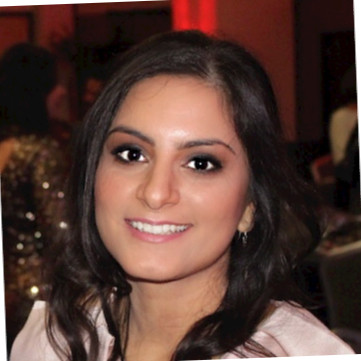
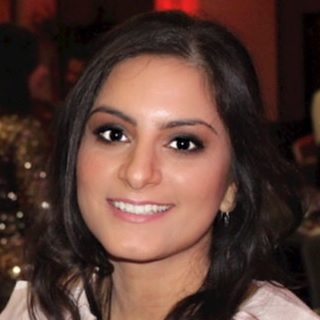
Added Chairperson.html

diff --git a/chairperson.html b/chairperson.html
@@ -1,0 +1,370 @@
+<!DOCTYPE html>
+<html lang="en">
+  <head>
+  <link rel="icon" href="images/chakra.png" type="image/png">
+  <!-- Global site tag (gtag.js) - Google Analytics -->
+<script async src="https://www.googletagmanager.com/gtag/js?id=UA-176707928-1"></script>
+<script>
+  window.dataLayer = window.dataLayer || [];
+  function gtag(){dataLayer.push(arguments);}
+  gtag('js', new Date());
+
+  gtag('config', 'UA-176707928-1');
+</script>
+
+    <title>Indian Students in UK | National Indian Students & Alumni Union UK | NISAU</title>
+    <meta charset="utf-8">
+    <meta name="viewport" content="width=device-width, initial-scale=1, shrink-to-fit=yes">
+	
+    <link href="https://fonts.googleapis.com/css?family=Josefin+Sans:300i,400,700" rel="stylesheet">
+    <link rel="stylesheet" href="fonts/icomoon/style.css">
+	<link rel="stylesheet" href="https://cdnjs.cloudflare.com/ajax/libs/font-awesome/4.7.0/css/font-awesome.min.css">
+    <link rel="stylesheet" href="css/bootstrap.min.css">
+	<link rel="stylesheet" href="css/main.css">
+    <link rel="stylesheet" href="css/magnific-popup.css">
+    <link rel="stylesheet" href="css/jquery-ui.css">
+    <link rel="stylesheet" href="css/owl.carousel.min.css">
+    <link rel="stylesheet" href="css/owl.theme.default.min.css">
+	<link rel="stylesheet" href="css/home.css">
+
+    <link rel="stylesheet" href="css/lightgallery.min.css">    
+    
+    <link rel="stylesheet" href="css/bootstrap-datepicker.css">
+
+    <link rel="stylesheet" href="fonts/flaticon/font/flaticon.css">
+    
+    <link rel="stylesheet" href="css/swiper.css">
+
+    <link rel="stylesheet" href="css/aos.css">
+
+    <link rel="stylesheet" href="css/style.css">
+	<style>
+.collapsible {
+  background-color: #fff;
+  color: black;
+  cursor: pointer;
+  padding: 18px;
+  width: 100%;
+  border: none;
+  text-align: left;
+  outline: none;
+  font-size: 15px;
+}
+
+.collapsible:after {
+  content: '\002B';
+  color: black;
+  font-weight: bold;
+  float: right;
+  margin-left: 5px;
+}
+
+.activeb:after {
+  content: "\2212";
+}
+
+.activeb, .collapsible:hover {
+  background-color: #fff;
+}
+
+.content {
+  padding: 0 18px;
+  max-height: 0;
+  overflow: hidden;
+  transition: max-height 0.2s ease-out;
+  background-color: #f1f1f1;
+}
+</style>
+	<style>
+	body{        
+        padding-top: 200px;
+        padding-bottom: 20px;
+    }
+	.fixed-header{
+		position: fixed;
+		top: 0;
+		width: 100%;
+		background: #00a5b4;
+		}
+		.icon-bar {
+  position: fixed;
+  top: 50%;
+  right: 0;
+  -webkit-transform: translateY(-50%);
+  -ms-transform: translateY(-50%);
+  transform: translateY(-50%);
+}
+.button {
+  background-color: #00a5b4; /* Green */
+  border: none;
+  color: white;
+  padding: 16px 32px;
+  text-align: center;
+  text-decoration: none;
+  display: inline-block;
+  font-size: 20px;
+  margin: 4px 2px;
+  transition-duration: 0.4s;
+  cursor: pointer;
+}
+.button1 {
+  background-color: white; 
+  color: black; 
+  border: 2px solid #00a5b4;
+}
+
+.button1:hover {
+  background-color: #00a5b4;
+  color: white;
+}
+.icon-bar a {
+  display: block;
+  text-align: center;
+  padding: 16px;
+  transition: all 0.3s ease;
+  color: white;
+  font-size: 20px;
+}
+
+.icon-bar a:hover {
+  background-color: #000;
+}
+
+.facebook {
+  background: #3B5998;
+  color: white;
+}
+
+.twitter {
+  background: #55ACEE;
+  color: white;
+}
+
+.google {
+  background: #dd4b39;
+  color: white;
+}
+
+.linkedin {
+  background: #007bb5;
+  color: white;
+}
+
+.youtube {
+  background: linear-gradient(45deg, #405de6,#5851db, #833ab4, #c13584, #e1306c, #fd1d1d);
+  color: white;
+}
+
+.content {
+  margin-left: 75px;
+  font-size: 30px;
+}
+
+.fa {
+  padding: 10px;
+  font-size: 30px;
+  width: 50px;
+  text-align: center;
+  text-decoration: none;
+  margin: 5px 2px;
+  border-radius: 50%;
+}
+
+.fa:hover {
+    opacity: 0.7;
+}
+.fa-facebook {
+  background: #3B5998;
+  color: white;
+}
+
+.fa-twitter {
+  background: #55ACEE;
+  color: white;
+}
+
+.fa-google {
+  background: #dd4b39;
+  color: white;
+}
+
+.fa-linkedin {
+  background: #007bb5;
+  color: white;
+}
+
+.fa-instagram {
+  background: #125688;
+  color: white;
+}
+
+	</style>
+  </head>
+  <body>
+  
+  <div class="site-wrap">
+
+    <div class="site-mobile-menu">
+      <div class="site-mobile-menu-header">
+        <div class="site-mobile-menu-close mt-3">
+          <span class="icon-close2 js-menu-toggle"></span>
+        </div>
+      </div>
+      <div class="site-mobile-menu-body"></div>
+    </div>
+    
+
+
+<!--Top Banner and Menu-->
+    <header class="site-navbar py-3 fixed-header" role="banner">
+<div class="icon-bar">
+  <a href="https://www.facebook.com/NISAU.UK/" class="facebook"><i class="fa fa-facebook"></i></a>
+  <a href="https://twitter.com/nisau_uk" class="twitter"><i class="fa fa-twitter"></i></a>
+  <a href="https://www.linkedin.com/company/national-indian-students-union-uk" class="linkedin"><i class="fa fa-linkedin"></i></a>
+  <a href="https://www.instagram.com/nisau_uk/?hl=en" class="youtube"><i class="fa fa-instagram"></i></a>
+</div>
+      <div class="container-fluid">
+        <div class="row align-items-center">
+          
+          <div class="col-6 col-xl-2" data-aos="fade-down">
+            <h1 class="mb-0"><a href="index.html" class="text-black h2 mb-0"><img src="images/logo_2.png" height="auto" width="200"></a></h1>
+          </div>
+          <div class="col-10 col-md-8 d-none d-xl-block" data-aos="fade-down">
+            <nav class="site-navigation position-relative text-right text-lg-center" role="navigation">
+
+              <ul class="site-menu js-clone-nav mx-auto d-none d-lg-block" style="font-size:35px;font-weight:600;font-color:white">
+                <li class="active"><a href="index.html">Home</a></li>
+                <li class="has-children">
+                  <a href="about-us.html">About Us</a>
+                  <ul class="dropdown">
+                    <li><a href="about.html#vision">Vision & Aim</a></li>
+                    <li><a href="about.html#values">Values</a></li>
+                    <li><a href="about.html#mission">Mission to Action</a></li>
+                    <li><a href="about.html#activities">Activities</a></li>
+					<li><a href="campaign.html">Campaigns</a></li>
+                    <li><a href="committee.html">Committee</a></li>
+                    <li><a href="patrons.html">Patrons</a></li>
+                    <li><a href="docs/privacy_policy.pdf">Privacy Policy</a></li>
+                  </ul>
+                </li>
+				<li class="has-children">
+                  <a href="events.html">Events</a>
+                  <ul class="dropdown">
+                    <li><a href="events.html">Events</a></li>
+					<li><a href="asknisau/index.html">#AskNISAU</a></li>
+					<li><a href="india-series/index.html">The India Series</a></li>
+                    <li><a href="perspective.html">Perspective</a></li>
+                  </ul>
+                </li>
+                <li><a href="awards.html">Awards</a></li>
+				<li class="has-children">
+                  <a href="#">Publications</a>
+                  <ul class="dropdown">
+                    <li class="has-children">
+						<a href="news.html">News & Media</a>
+						<ul class="dropdown">
+							<li><a href="news.html">NISAU in the News</a></li>
+							<li><a href="press.html">Press Release</a></li>
+						</ul>
+					</li>
+                    <li class="has-children">
+						<a href="essential_info.html">Essential Info</a>
+						<ul class="dropdown">
+							<li><a href="essential_info.html">Entry in the UK</a></li>
+							<li><a href="essential_info.html#employability">Employability</a></li>
+							<li><a href="essential_info.html#accommodation">Accommodation</a></li>
+							<li><a href="essential_info.html#first-week">First Week in the UK</a></li>
+							<li><a href="essential_info.html#tips">General Tips</a></li>
+						</ul>
+					</li>
+					<li><a href="advisory.html">Student Advisory</a></li>
+					<li><a href="thought-leadership.html">Thought Leadership</a></li>
+					<li><a href="newsletter/index.html">Newsletter</a></li>
+                    <li><a href="blog.html">Blogs</a></li>
+                  </ul>
+                </li>
+				<li><a href="gallery.html">Gallery</a></li>
+				<li class="has-children">
+						<a href="join.html">Join</a>
+						<ul class="dropdown">
+							<li><a href="join.html">Join us</a></li>
+							<li><a href="join.html#volunteer">Volunteer for us</a></li>
+							<li><a href="contact.html">Contact</a></li>
+						</ul>
+				</li>
+              </ul>
+            </nav>
+          </div>
+			<div class="col-6 col-xl-2 text-right" data-aos="fade-down">
+            
+
+            <div class="d-inline-block d-xl-none ml-md-0 mr-auto py-3" style="position: relative; top: 3px;"><a href="#" class="site-menu-toggle js-menu-toggle text-black"><span class="icon-menu h3"></span></a></div>
+
+          </div>
+
+        </div>
+      </div>
+      
+    </header>
+
+<!--Welcomes You, Facebook and Twitter Embedds-->
+  <center>
+  <h2 style="line-height:0.7;font-size:40px">Sanam Arora</h2>
+  <h4 style="font-size:20px">Chairperson, NISAU-UK</h4><br>
+  <img src="images/team/sanam.jpg" alt="Sanam Arora" height="auto">
+  <br><br>
+  <a href="#" class="fa fa-facebook"></a>
+  <a href="#" class="fa fa-twitter"></a>
+  <a href="#" class="fa fa-google"></a>
+  <a href="#" class="fa fa-linkedin"></a>
+  <a href="#" class="fa fa-instagram"></a>
+  <p align="justify" style="padding-left:20%;padding-right:20%;padding-top:20px">Contrary to popular belief, Lorem Ipsum is not simply random text. It has roots in a piece of classical Latin literature from 45 BC, making it over 2000 years old. Richard McClintock, a Latin professor at Hampden-Sydney College in Virginia, looked up one of the more obscure Latin words, consectetur, from a Lorem Ipsum passage, and going through the cites of the word in classical literature, discovered the undoubtable source. Lorem Ipsum comes from sections 1.10.32 and 1.10.33 of "de Finibus Bonorum et Malorum" (The Extremes of Good and Evil) by Cicero, written in 45 BC. This book is a treatise on the theory of ethics, very popular during the Renaissance. The first line of Lorem Ipsum, "Lorem ipsum dolor sit amet..", comes from a line in section 1.10.32.</p>
+  </center>  
+    
+    
+  </div>
+
+  <script src="js/jquery-3.3.1.min.js"></script>
+  <script src="js/jquery-migrate-3.0.1.min.js"></script>
+  <script src="js/jquery-ui.js"></script>
+  <script src="js/popper.min.js"></script>
+  <script src="js/bootstrap.min.js"></script>
+  <script src="js/owl.carousel.min.js"></script>
+  <script src="js/jquery.stellar.min.js"></script>
+  <script src="js/jquery.countdown.min.js"></script>
+  <script src="js/jquery.magnific-popup.min.js"></script>
+  <script src="js/bootstrap-datepicker.min.js"></script>
+  <script src="js/swiper.min.js"></script>
+  <script src="js/aos.js"></script>
+
+  <script src="js/picturefill.min.js"></script>
+  <script src="js/lightgallery-all.min.js"></script>
+  <script src="js/jquery.mousewheel.min.js"></script>
+
+  <script src="js/main.js"></script>
+  
+  <script>
+    $(document).ready(function(){
+      $('#lightgallery').lightGallery();
+    });
+  </script>
+  <script>$('.owl-carousel').owlCarousel({
+    loop:true,
+    margin:10,
+    nav:false,
+    responsive:{
+        0:{
+            items:1
+        },
+        600:{
+            items:1
+        },
+        1000:{
+            items:1
+        }
+    }
+})</script>
+  <div id="fb-root"></div>
+<script async defer crossorigin="anonymous" src="https://connect.facebook.net/en_US/sdk.js#xfbml=1&version=v8.0" nonce="uhJ43RhI"></script> 
+  </body>
+</html>
